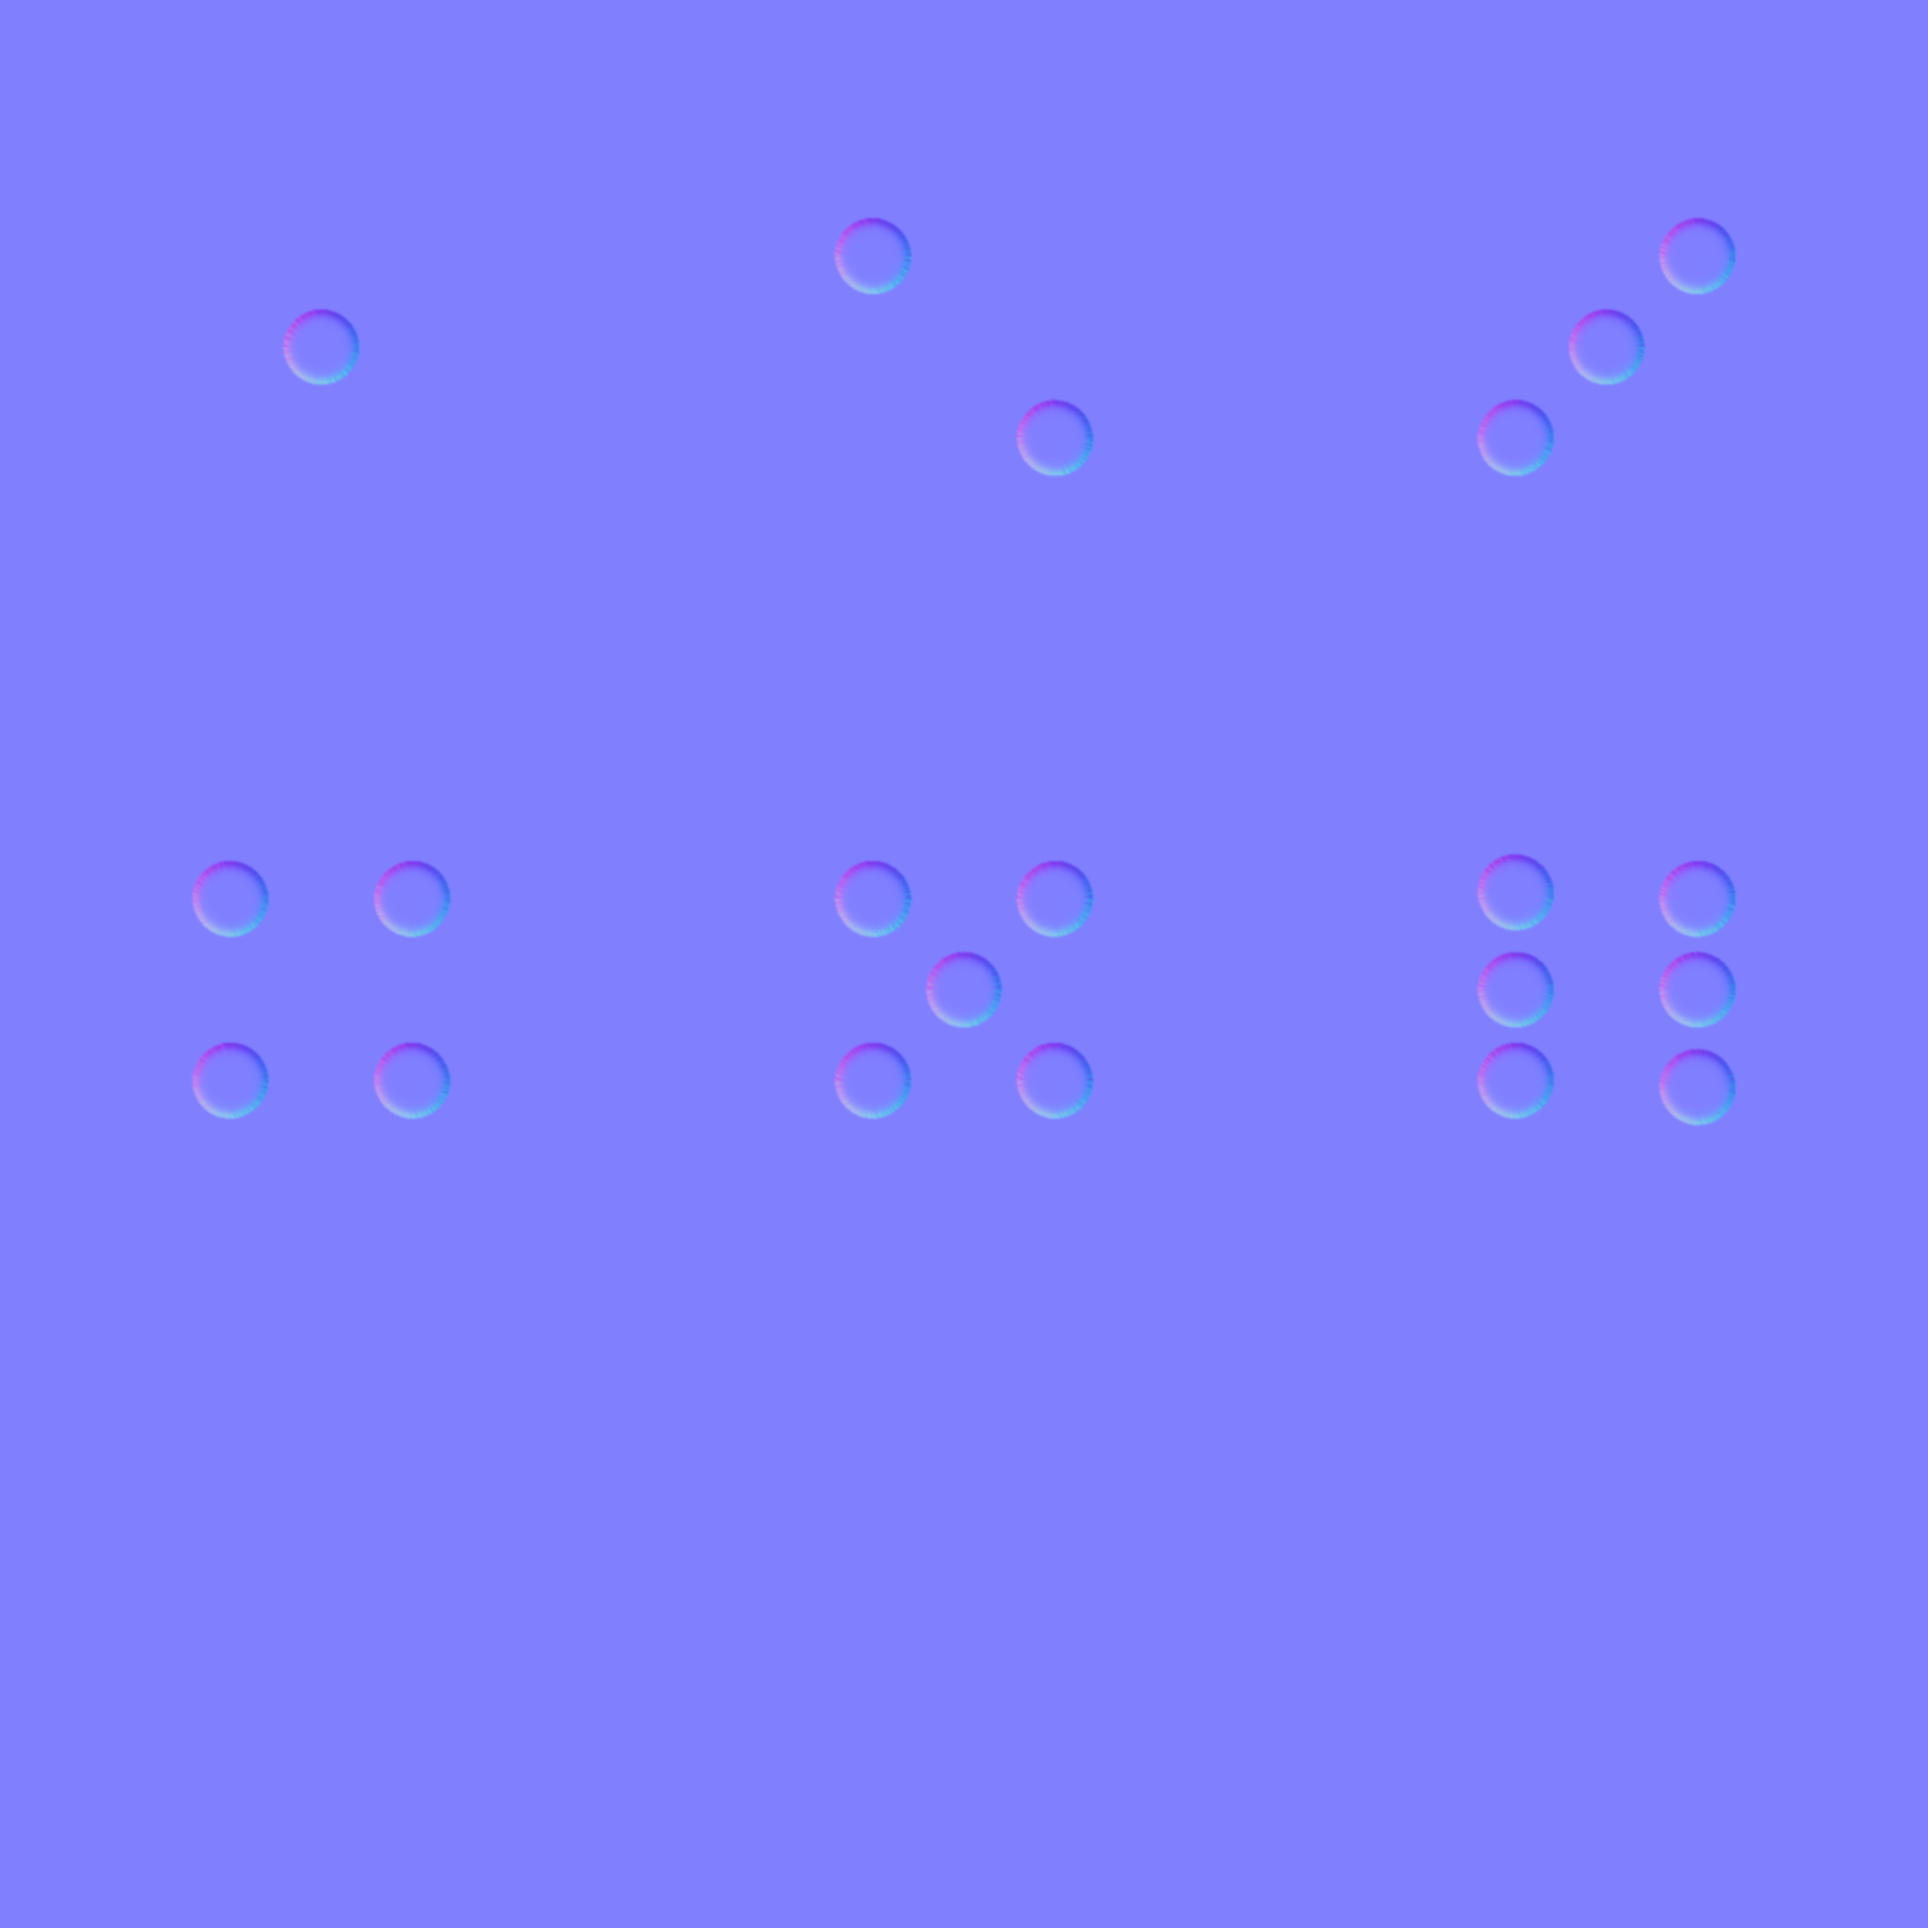
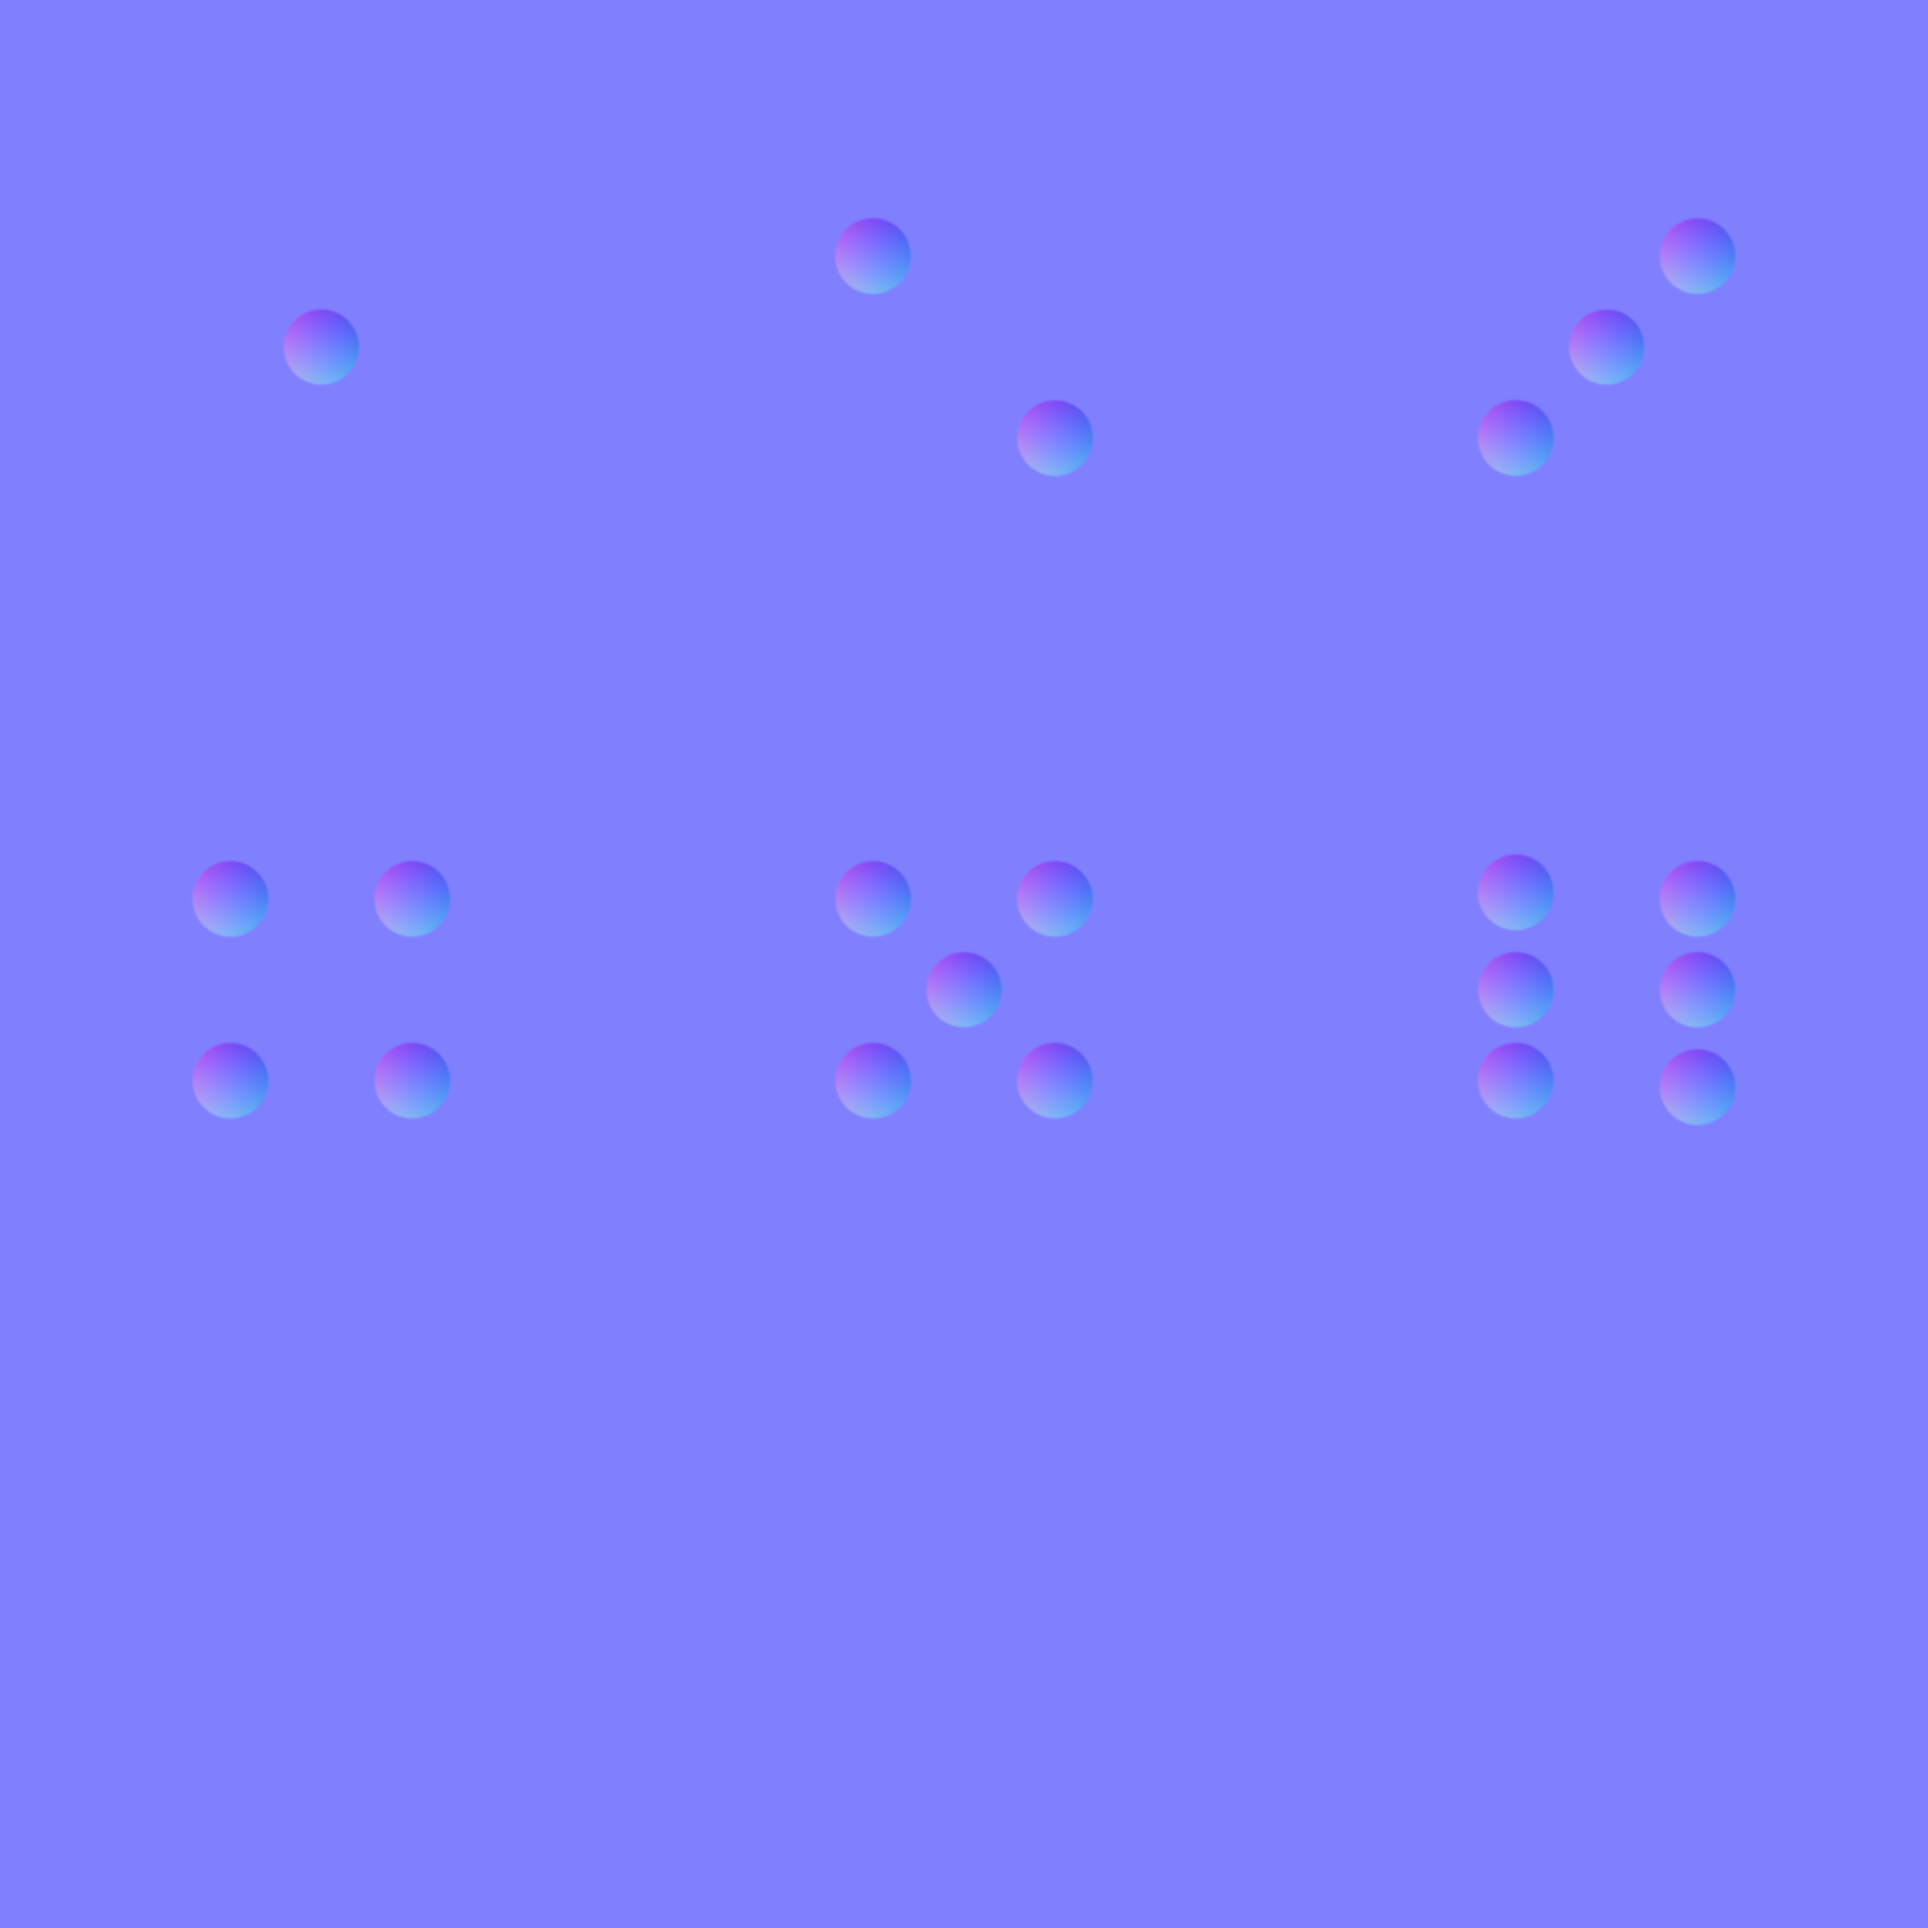
Give classic dice pips deeper spherical bowl normals

diff --git a/scripts/assets/center-dice-labels.py b/scripts/assets/center-dice-labels.py
@@ -16,7 +16,12 @@ from PIL import Image, ImageDraw
 from scipy import ndimage
 
 sys.path.insert(0, str(Path(__file__).parent))
-from dice_style import ENGRAVING_ROUNDING_MM, ENGRAVING_SMOOTHING_MM, ENGRAVING_DEPTH_MM
+from dice_style import (
+    ENGRAVING_ROUNDING_MM,
+    ENGRAVING_SMOOTHING_MM,
+    ENGRAVING_DEPTH_MM,
+    PIP_DEPTH_MM,
+)
 
 ROOT = Path(__file__).resolve().parents[2]
 ASSETS = ROOT / "src/assets"
@@ -130,7 +135,7 @@ def label_mask(image, threshold=100):
     return keep[components]
 
 
-def engraving_normal(color, blank, texels_per_mm=None):
+def engraving_normal(color, blank, texels_per_mm=None, *, spherical_pips=False):
     """Derive rounded recessed strokes from the final ink without print/normal drift.
 
     The exported Blender bitangent opposes increasing atlas rows (verified
@@ -139,11 +144,34 @@ def engraving_normal(color, blank, texels_per_mm=None):
     """
     ink = label_mask(color)
     density = color.width / 16 if texels_per_mm is None else texels_per_mm
-    # Distance grows inward from the antialiased ink boundary. A rounded scoop
-    # continues curving through the stroke instead of ending at a flat lip.
-    distance = np.maximum(ndimage.distance_transform_edt(ink) - 0.5, 0)
-    radius = ENGRAVING_ROUNDING_MM * density
-    height = -ENGRAVING_DEPTH_MM * density * np.tanh(distance / radius)
+    if spherical_pips:
+        # A circular pip is a spherical cap, not a wide numeral stroke. Fit
+        # each printed disc so its entire floor curves continuously to centre.
+        height = np.zeros(ink.shape, dtype=float)
+        components, _ = ndimage.label(ink)
+        for label, region in enumerate(ndimage.find_objects(components), 1):
+            if region is None:
+                continue
+            mask = components[region] == label
+            y, x = np.nonzero(mask)
+            cx, cy = x.mean(), y.mean()
+            aperture = np.sqrt(mask.sum() / np.pi)
+            depth = min(PIP_DEPTH_MM * density, aperture * 0.8)
+            sphere_radius = (aperture**2 + depth**2) / (2 * depth)
+            yy, xx = np.indices(mask.shape)
+            radial_squared = (xx - cx) ** 2 + (yy - cy) ** 2
+            bowl = (
+                sphere_radius
+                - depth
+                - np.sqrt(np.maximum(sphere_radius**2 - radial_squared, 0))
+            )
+            height[region] = np.minimum(bowl, 0)
+    else:
+        # Distance grows inward from the antialiased ink boundary. A rounded scoop
+        # continues curving through the stroke instead of ending at a flat lip.
+        distance = np.maximum(ndimage.distance_transform_edt(ink) - 0.5, 0)
+        radius = ENGRAVING_ROUNDING_MM * density
+        height = -ENGRAVING_DEPTH_MM * density * np.tanh(distance / radius)
     # Round the rim and medial-axis joins, avoiding staircase highlights and
     # sharp creases where two sides of a narrow numeral stroke meet.
     height = ndimage.gaussian_filter(
@@ -207,9 +235,9 @@ def center(name):
             for _, _, _, frame in faces
         ]
     )
-    engraving_normal(output_color, blank, texels_per_mm).save(
-        out / f"{name}_normal.png"
-    )
+    engraving_normal(
+        output_color, blank, texels_per_mm, spherical_pips=name == "die"
+    ).save(out / f"{name}_normal.png")
     print(name, "aligned labels in their reading frames")
 
 

diff --git a/scripts/assets/test_centered_labels.py b/scripts/assets/test_centered_labels.py
@@ -39,6 +39,29 @@ class CenteredLabelsTests(unittest.TestCase):
         self.assertLess(np.max(np.abs(np.diff(x[245:267]))), 0.08)
         np.testing.assert_array_equal(normal[256, 200], [128, 128, 255])
 
+    def test_pip_floor_is_spherical_instead_of_flat(self):
+        y, x = np.indices((512, 512))
+        disk = (x - 256) ** 2 + (y - 256) ** 2 <= 50**2
+        color = np.full((512, 512, 3), 255, dtype=np.uint8)
+        color[disk] = 0
+        normal = np.asarray(
+            center.engraving_normal(
+                Image.fromarray(color),
+                Image.new("RGB", (512, 512), (128, 128, 255)),
+                100,
+                spherical_pips=True,
+            )
+        ).astype(float)
+        # A ball-cut floor tilts progressively farther from the centre, in
+        # both axes. The former stroke profile had an almost flat broad floor.
+        nx = (normal[256, :, 0] - 127.5) / 127.5
+        self.assertLess(abs(nx[256]), 0.01)
+        self.assertGreater(nx[246], 0.15)
+        self.assertGreater(nx[226], nx[246] * 2.5)
+        self.assertAlmostEqual(nx[226], -nx[286], delta=0.01)
+        self.assertAlmostEqual(normal[226, 256, 1], 255 - normal[256, 226, 0], delta=1)
+        np.testing.assert_array_equal(normal[256, 190], [128, 128, 255])
+
     def test_every_label_is_centered_and_keeps_its_components(self):
         for name in center.NAMES:
             folder, faces = center.face_uvs(name)

diff --git a/scripts/assets/dice_style.py b/scripts/assets/dice_style.py
@@ -13,3 +13,4 @@ LABEL_FACE_FRACTION = 0.60
 ENGRAVING_ROUNDING_MM = 0.25
 ENGRAVING_SMOOTHING_MM = 0.04
 ENGRAVING_DEPTH_MM = 0.18
+PIP_DEPTH_MM = 0.35

diff --git a/README.md b/README.md
@@ -98,7 +98,9 @@ and https://superretro.com.au/products/polyhedral-7-die-set-opaque-ivoryblack.
 Engraving normals are regenerated after this fitting, with a 0.18 mm virtual
 depth, a 0.25 mm rounded inward profile, and 0.04 mm rim smoothing converted
 through each model's UV texel density. The groove curves across the numeral
-stroke instead of producing a narrow lip around a flat bottom.
+stroke instead of producing a narrow lip around a flat bottom. Classic round pips
+use fitted spherical-cap bowls with 0.35 mm virtual depth so their broad floors
+curve continuously, rather than reusing the numeral-stroke profile.
 Mesh normals remain analytic and tangent frames are rebuilt for the new meshes;
 blank models retain the shared neutral normal texel.
 
